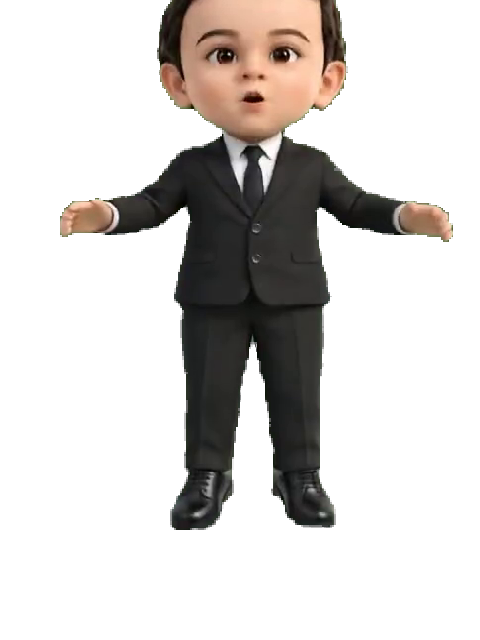
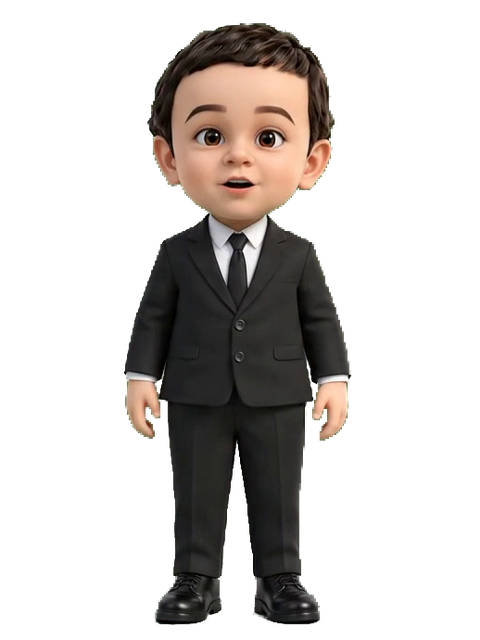
fix(home): remove green mat background completely, transparent full-body idle frame, and 'Want my help?' with Yes/No

Changed region(s): [[0.125, 0.0, 0.9688, 1.0]]

diff --git a/src/components/InteractiveAvatar.tsx b/src/components/InteractiveAvatar.tsx
@@ -297,15 +297,14 @@ export default function InteractiveAvatar() {
             void main() {
                 vec4 col = texture2D(u_video, v_uv);
 
-                // High-precision green screen chroma keying & despill
+                // High-precision calibrated green mat chroma keying & despill
                 float maxRB = max(col.r, col.b);
                 float greenExcess = col.g - maxRB;
 
-                // Calibrated against video lighting curve:
-                // Smooth transition zones prevent edge stepping, flickering, and harsh halo
-                float isGreenMain = smoothstep(0.04, 0.12, greenExcess) * smoothstep(0.20, 0.38, col.g);
-                float isGreenShadow = smoothstep(0.02, 0.08, greenExcess) * smoothstep(0.10, 0.22, col.g) * (1.0 - smoothstep(0.38, 0.52, col.g)) * 0.95;
-                float isGreen = clamp(isGreenMain + isGreenShadow, 0.0, 1.0);
+                // Calibrated against the video's olive green mat background:
+                // Background has greenExcess ~0.18-0.20 and col.g ~0.48-0.51, col.r ~0.28-0.31
+                float isGreen = smoothstep(0.035, 0.09, greenExcess) * smoothstep(0.20, 0.32, col.g) * (1.0 - smoothstep(0.55, 0.70, col.r));
+                isGreen = clamp(isGreen, 0.0, 1.0);
 
                 // Preserve true foreground alpha
                 float alpha = clamp(1.0 - isGreen, 0.0, 1.0);
@@ -483,10 +482,10 @@ export default function InteractiveAvatar() {
         const config = activeConfigRef.current;
         const routeKey = "route:" + location.pathname;
 
-        // If on home page and not yet played, show the avatar politely and ask: "Do you want me to take a tour?"
+        // If on home page and not yet played, show the avatar politely and ask: "Want my help?"
         if (location.pathname === "/" && !playedKeys.has(routeKey)) {
             setStage("idle");
-            setCurrentText("Do you want me to take a tour?");
+            setCurrentText("Want my help?");
             setIsBubbleOpen(true);
             setTourPromptActive(true);
             return;
@@ -590,9 +589,9 @@ export default function InteractiveAvatar() {
                 setIsBubbleOpen(false);
                 clearCanvas();
             } else if (location.pathname === "/") {
-                // On home screen, show avatar politely and ask: "Do you want me to take a tour?"
+                // On home screen, show avatar politely and ask: "Want my help?"
                 setStage("idle");
-                setCurrentText("Do you want me to take a tour?");
+                setCurrentText("Want my help?");
                 setIsBubbleOpen(true);
                 setTourPromptActive(true);
             } else {
@@ -722,8 +721,8 @@ export default function InteractiveAvatar() {
                 />
             )}
 
-            {/* Quick Re-open Virtual Concierge Pill when dismissed */}
-            {hasTouched && stage === "hidden" && !isFormActive && (
+            {/* Quick Re-open Virtual Concierge Pill when dismissed (Only on other sub-pages, not home) */}
+            {hasTouched && stage === "hidden" && !isFormActive && !isHome && (
                 <button
                     onClick={handleAvatarClick}
                     className={`fixed bottom-3 z-30 flex items-center gap-2 px-3.5 py-2 rounded-full bg-card/95 backdrop-blur-md border border-[hsl(var(--gold)/0.5)] shadow-[var(--shadow-elegant)] text-foreground text-xs font-semibold hover:border-[hsl(var(--gold))] hover:scale-105 active:scale-95 transition-all cursor-pointer group ${
@@ -826,19 +825,19 @@ export default function InteractiveAvatar() {
                     </div>
                 )}
 
-                {/* Character Stage - Elegant Circular Glass & Gold Framed Avatar */}
+                {/* Character Stage - Sleek 3:4 Vertical Profile Fully Visible Within Viewport */}
                 <div
                     onClick={tourPromptActive ? handleStartTour : handleAvatarClick}
                     title={tourPromptActive ? "Click Yes to start tour" : "Click the boy to speak"}
-                    className={`relative w-28 h-28 sm:w-32 sm:h-32 md:w-36 md:h-36 rounded-full border-2 border-[hsl(var(--gold))] shadow-[0_8px_32px_rgba(197,160,89,0.35)] bg-gradient-to-b from-card/90 via-card/80 to-[hsl(var(--gold)/0.15)] backdrop-blur-md cursor-pointer pointer-events-auto overflow-hidden transition-all duration-300 ease-in-out hover:scale-105 active:scale-95 group ${
-                        stage === "idle" ? "ring-2 ring-[hsl(var(--gold)/0.5)] ring-offset-2 ring-offset-background" : ""
+                    className={`relative w-24 sm:w-28 md:w-36 lg:w-40 xl:w-44 aspect-[3/4] cursor-pointer pointer-events-auto overflow-visible transition-all duration-300 ease-in-out translate-y-0 sm:translate-y-1 ${
+                        stage === "idle" ? "hover:scale-[1.03] active:scale-[0.98]" : ""
                     }`}
                 >
-                    {/* Idle state static transparent visual for pristine instant appearance without green studio artifact */}
+                    {/* Idle state static transparent visual for pristine instant appearance without video lag */}
                     <img
                         src="/avatar-idle.png"
                         alt="A.R. Grands Concierge"
-                        className={`absolute inset-0 w-full h-full object-cover object-top pointer-events-none transition-opacity duration-300 ${
+                        className={`absolute inset-0 w-full h-full object-contain pointer-events-none transition-opacity duration-300 ${
                             stage === "idle" ? "opacity-100" : "opacity-0"
                         }`}
                     />
@@ -848,13 +847,10 @@ export default function InteractiveAvatar() {
                         ref={canvasRef}
                         width={480}
                         height={640}
-                        className={`w-full h-full object-cover object-top block bg-transparent border-0 outline-none shadow-none pointer-events-auto will-change-transform ${
-                            stage === "speaking" ? "opacity-100" : "opacity-0"
-                        }`}
+                        className={`w-full h-full object-contain block bg-transparent border-0 outline-none shadow-none pointer-events-auto will-change-transform ${
+                            isCenter ? "object-center" : isLeft ? "object-left" : "object-right"
+                        } ${stage === "speaking" ? "opacity-100" : "opacity-0"}`}
                     />
-
-                    {/* Subtle golden ambient highlight ring */}
-                    <div className="absolute inset-0 rounded-full border border-white/20 pointer-events-none shadow-inner" />
 
                     {/* Video Source - Streamlined H.264 Faststart with Full iOS/Android Inline Attributes */}
                     <video
